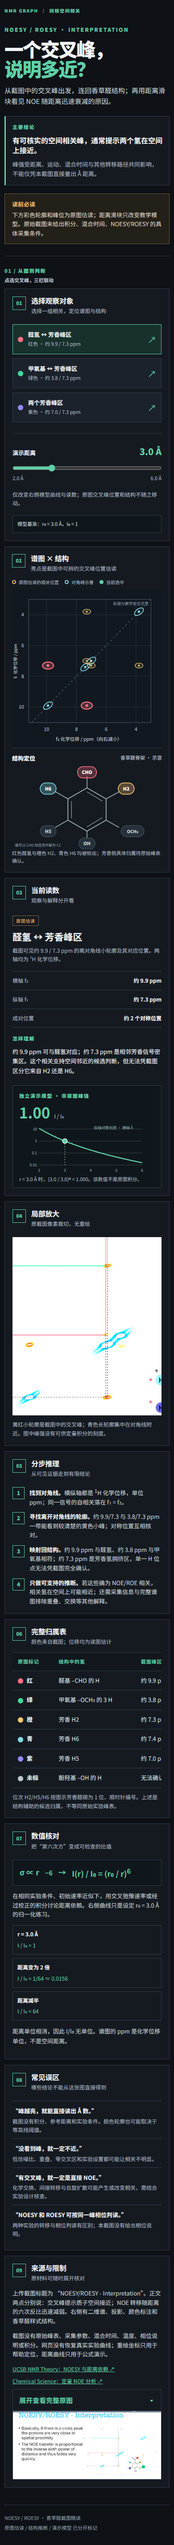
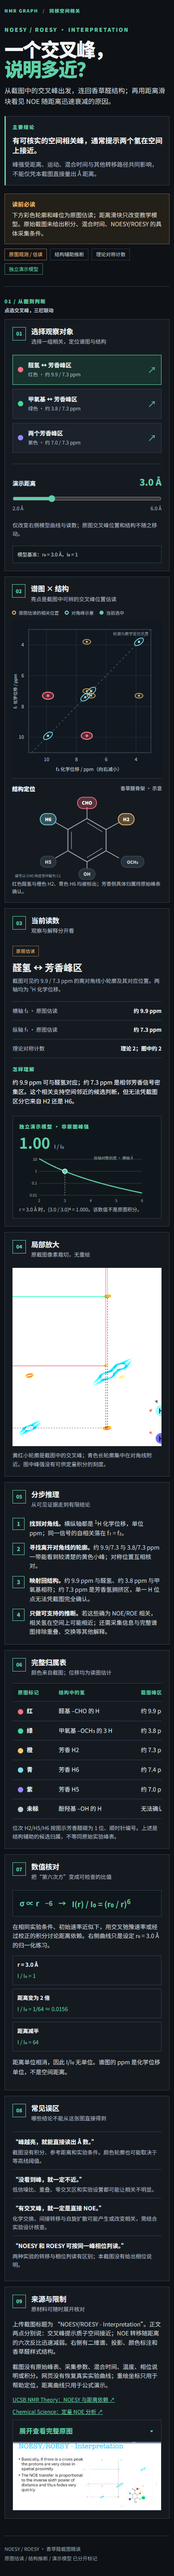
Clarify evidence levels and symmetry counts

Changed region(s): [[0.0308, 0.0, 0.9231, 0.9968], [0.7385, 0.9657, 0.8308, 0.9968]]

diff --git a/topics/noesy-roesy-vanillin/index.html b/topics/noesy-roesy-vanillin/index.html
@@ -29,6 +29,7 @@ h1 em{font-style:normal;color:var(--mint)}
 .mini-label{display:block;text-transform:uppercase;letter-spacing:.13em;color:var(--mint);font-size:11px;font-weight:800;margin-bottom:9px}
 .hero-claim strong{font-size:19px;line-height:1.42;display:block}.hero-claim p{color:var(--muted);font-size:13px;margin:10px 0 0}
 .read-first{display:flex;gap:16px;padding:13px 16px;border:1px solid #6b5b3d;background:#231f19;color:#ded6c4;font-size:13px}.read-first strong{color:var(--amber);white-space:nowrap}
+.evidence-key{display:flex;flex-wrap:wrap;gap:7px;margin-top:10px}.evidence-key span{border:1px solid var(--line);color:#b9c9ce;padding:3px 9px;font-size:11px}.evidence-key span:first-child{color:var(--amber);border-color:#806b43}.evidence-key span:last-child{color:var(--mint);border-color:#367962}
 main{padding-bottom:38px}.section-label{display:flex;justify-content:space-between;gap:12px;margin:24px 0 10px;color:var(--mint);font-size:11px;font-weight:800;letter-spacing:.14em;text-transform:uppercase}
 .section-label span:last-child{color:var(--muted);letter-spacing:0;text-transform:none}
 .dashboard{display:grid;grid-template-columns:276px minmax(0,1fr) 304px;gap:12px;align-items:stretch}
@@ -63,6 +64,7 @@ svg text{font-family:"Noto Sans SC","Microsoft YaHei",system-ui,sans-serif}
         <aside class="hero-claim"><span class="mini-label">主要结论</span><strong>有可核实的空间相关峰，通常提示两个氢在空间上接近。</strong><p>峰强受距离、运动、混合时间与其他转移路径共同影响，不能仅凭本截图直接量出 Å 距离。</p></aside>
       </div>
       <div class="read-first"><strong>读前必读</strong><span>下方彩色轮廓和峰位为原图估读；距离滑块只改变教学模型。原始截图未给出积分、混合时间、NOESY/ROESY 的具体采集条件。</span></div>
+      <div class="evidence-key" aria-label="证据层级"><span>原图观测 / 估读</span><span>结构辅助推断</span><span>理论对称计数</span><span>独立演示模型</span></div>
     </header>
 
     <main id="main">
@@ -93,7 +95,7 @@ svg text{font-family:"Noto Sans SC","Microsoft YaHei",system-ui,sans-serif}
         <aside class="panel readout-panel" aria-live="polite">
           <div class="panel-head"><span class="step">03</span><div><h2>当前读数</h2><p>观察与解释分开看</p></div></div>
           <div class="readout-title"><span class="status" id="pair-status">原图估读</span><h3 id="pair-title">醛氢 ↔ 芳香峰区</h3><p id="pair-summary"></p></div>
-          <dl class="numbers"><div><dt>横轴 f₂</dt><dd id="x-read">约 9.9 ppm</dd></div><div><dt>纵轴 f₁</dt><dd id="y-read">约 7.3 ppm</dd></div><div><dt>成对位置</dt><dd id="pair-count">2 个对称位置</dd></div></dl>
+          <dl class="numbers"><div><dt>横轴 f₂ · 原图估读</dt><dd id="x-read">约 9.9 ppm</dd></div><div><dt>纵轴 f₁ · 原图估读</dt><dd id="y-read">约 7.3 ppm</dd></div><div><dt>理论对称计数</dt><dd id="pair-count">理论 2；图中约 2</dd></div></dl>
           <div class="inference"><span class="mini-label">怎样理解</span><p id="pair-explain"></p></div>
           <div class="model-output"><span class="mini-label">独立演示模型 · 非原图峰强</span><div class="model-value"><strong id="intensity">1.000</strong><span>I / I₀</span></div><svg id="curve" viewBox="0 0 280 118" role="img" aria-label="归一化 NOE 距离模型曲线"></svg><p id="model-sentence"></p></div>
         </aside>
@@ -254,7 +256,7 @@ svg text{font-family:"Noto Sans SC","Microsoft YaHei",system-ui,sans-serif}
     $('structure-caption').textContent=p.structure;
     $('x-read').textContent=`约 ${p.x.toFixed(1)} ppm`;
     $('y-read').textContent=`约 ${p.y.toFixed(1)} ppm`;
-    $('pair-count').textContent=id==='aromatic'?'弱轮廓，独立性未确认':'约 2 个对称位置';
+    $('pair-count').textContent=id==='aromatic'?'理论 2；图中无法确认':'理论 2；图中约 2';
     $('pair-status').textContent=id==='aromatic'?'原图弱轮廓 · 待确认':'原图估读';
     renderPlot();renderStructure();
   }

diff --git a/topics/noesy-roesy-vanillin/source/template.html b/topics/noesy-roesy-vanillin/source/template.html
@@ -18,6 +18,7 @@
         <aside class="hero-claim"><span class="mini-label">主要结论</span><strong>有可核实的空间相关峰，通常提示两个氢在空间上接近。</strong><p>峰强受距离、运动、混合时间与其他转移路径共同影响，不能仅凭本截图直接量出 Å 距离。</p></aside>
       </div>
       <div class="read-first"><strong>读前必读</strong><span>下方彩色轮廓和峰位为原图估读；距离滑块只改变教学模型。原始截图未给出积分、混合时间、NOESY/ROESY 的具体采集条件。</span></div>
+      <div class="evidence-key" aria-label="证据层级"><span>原图观测 / 估读</span><span>结构辅助推断</span><span>理论对称计数</span><span>独立演示模型</span></div>
     </header>
 
     <main id="main">
@@ -48,7 +49,7 @@
         <aside class="panel readout-panel" aria-live="polite">
           <div class="panel-head"><span class="step">03</span><div><h2>当前读数</h2><p>观察与解释分开看</p></div></div>
           <div class="readout-title"><span class="status" id="pair-status">原图估读</span><h3 id="pair-title">醛氢 ↔ 芳香峰区</h3><p id="pair-summary"></p></div>
-          <dl class="numbers"><div><dt>横轴 f₂</dt><dd id="x-read">约 9.9 ppm</dd></div><div><dt>纵轴 f₁</dt><dd id="y-read">约 7.3 ppm</dd></div><div><dt>成对位置</dt><dd id="pair-count">2 个对称位置</dd></div></dl>
+          <dl class="numbers"><div><dt>横轴 f₂ · 原图估读</dt><dd id="x-read">约 9.9 ppm</dd></div><div><dt>纵轴 f₁ · 原图估读</dt><dd id="y-read">约 7.3 ppm</dd></div><div><dt>理论对称计数</dt><dd id="pair-count">理论 2；图中约 2</dd></div></dl>
           <div class="inference"><span class="mini-label">怎样理解</span><p id="pair-explain"></p></div>
           <div class="model-output"><span class="mini-label">独立演示模型 · 非原图峰强</span><div class="model-value"><strong id="intensity">1.000</strong><span>I / I₀</span></div><svg id="curve" viewBox="0 0 280 118" role="img" aria-label="归一化 NOE 距离模型曲线"></svg><p id="model-sentence"></p></div>
         </aside>

diff --git a/topics/noesy-roesy-vanillin/source/style.css b/topics/noesy-roesy-vanillin/source/style.css
@@ -21,6 +21,7 @@ h1 em{font-style:normal;color:var(--mint)}
 .mini-label{display:block;text-transform:uppercase;letter-spacing:.13em;color:var(--mint);font-size:11px;font-weight:800;margin-bottom:9px}
 .hero-claim strong{font-size:19px;line-height:1.42;display:block}.hero-claim p{color:var(--muted);font-size:13px;margin:10px 0 0}
 .read-first{display:flex;gap:16px;padding:13px 16px;border:1px solid #6b5b3d;background:#231f19;color:#ded6c4;font-size:13px}.read-first strong{color:var(--amber);white-space:nowrap}
+.evidence-key{display:flex;flex-wrap:wrap;gap:7px;margin-top:10px}.evidence-key span{border:1px solid var(--line);color:#b9c9ce;padding:3px 9px;font-size:11px}.evidence-key span:first-child{color:var(--amber);border-color:#806b43}.evidence-key span:last-child{color:var(--mint);border-color:#367962}
 main{padding-bottom:38px}.section-label{display:flex;justify-content:space-between;gap:12px;margin:24px 0 10px;color:var(--mint);font-size:11px;font-weight:800;letter-spacing:.14em;text-transform:uppercase}
 .section-label span:last-child{color:var(--muted);letter-spacing:0;text-transform:none}
 .dashboard{display:grid;grid-template-columns:276px minmax(0,1fr) 304px;gap:12px;align-items:stretch}

diff --git a/topics/noesy-roesy-vanillin/source/app.js b/topics/noesy-roesy-vanillin/source/app.js
@@ -137,7 +137,7 @@
     $('structure-caption').textContent=p.structure;
     $('x-read').textContent=`约 ${p.x.toFixed(1)} ppm`;
     $('y-read').textContent=`约 ${p.y.toFixed(1)} ppm`;
-    $('pair-count').textContent=id==='aromatic'?'弱轮廓，独立性未确认':'约 2 个对称位置';
+    $('pair-count').textContent=id==='aromatic'?'理论 2；图中无法确认':'理论 2；图中约 2';
     $('pair-status').textContent=id==='aromatic'?'原图弱轮廓 · 待确认':'原图估读';
     renderPlot();renderStructure();
   }
